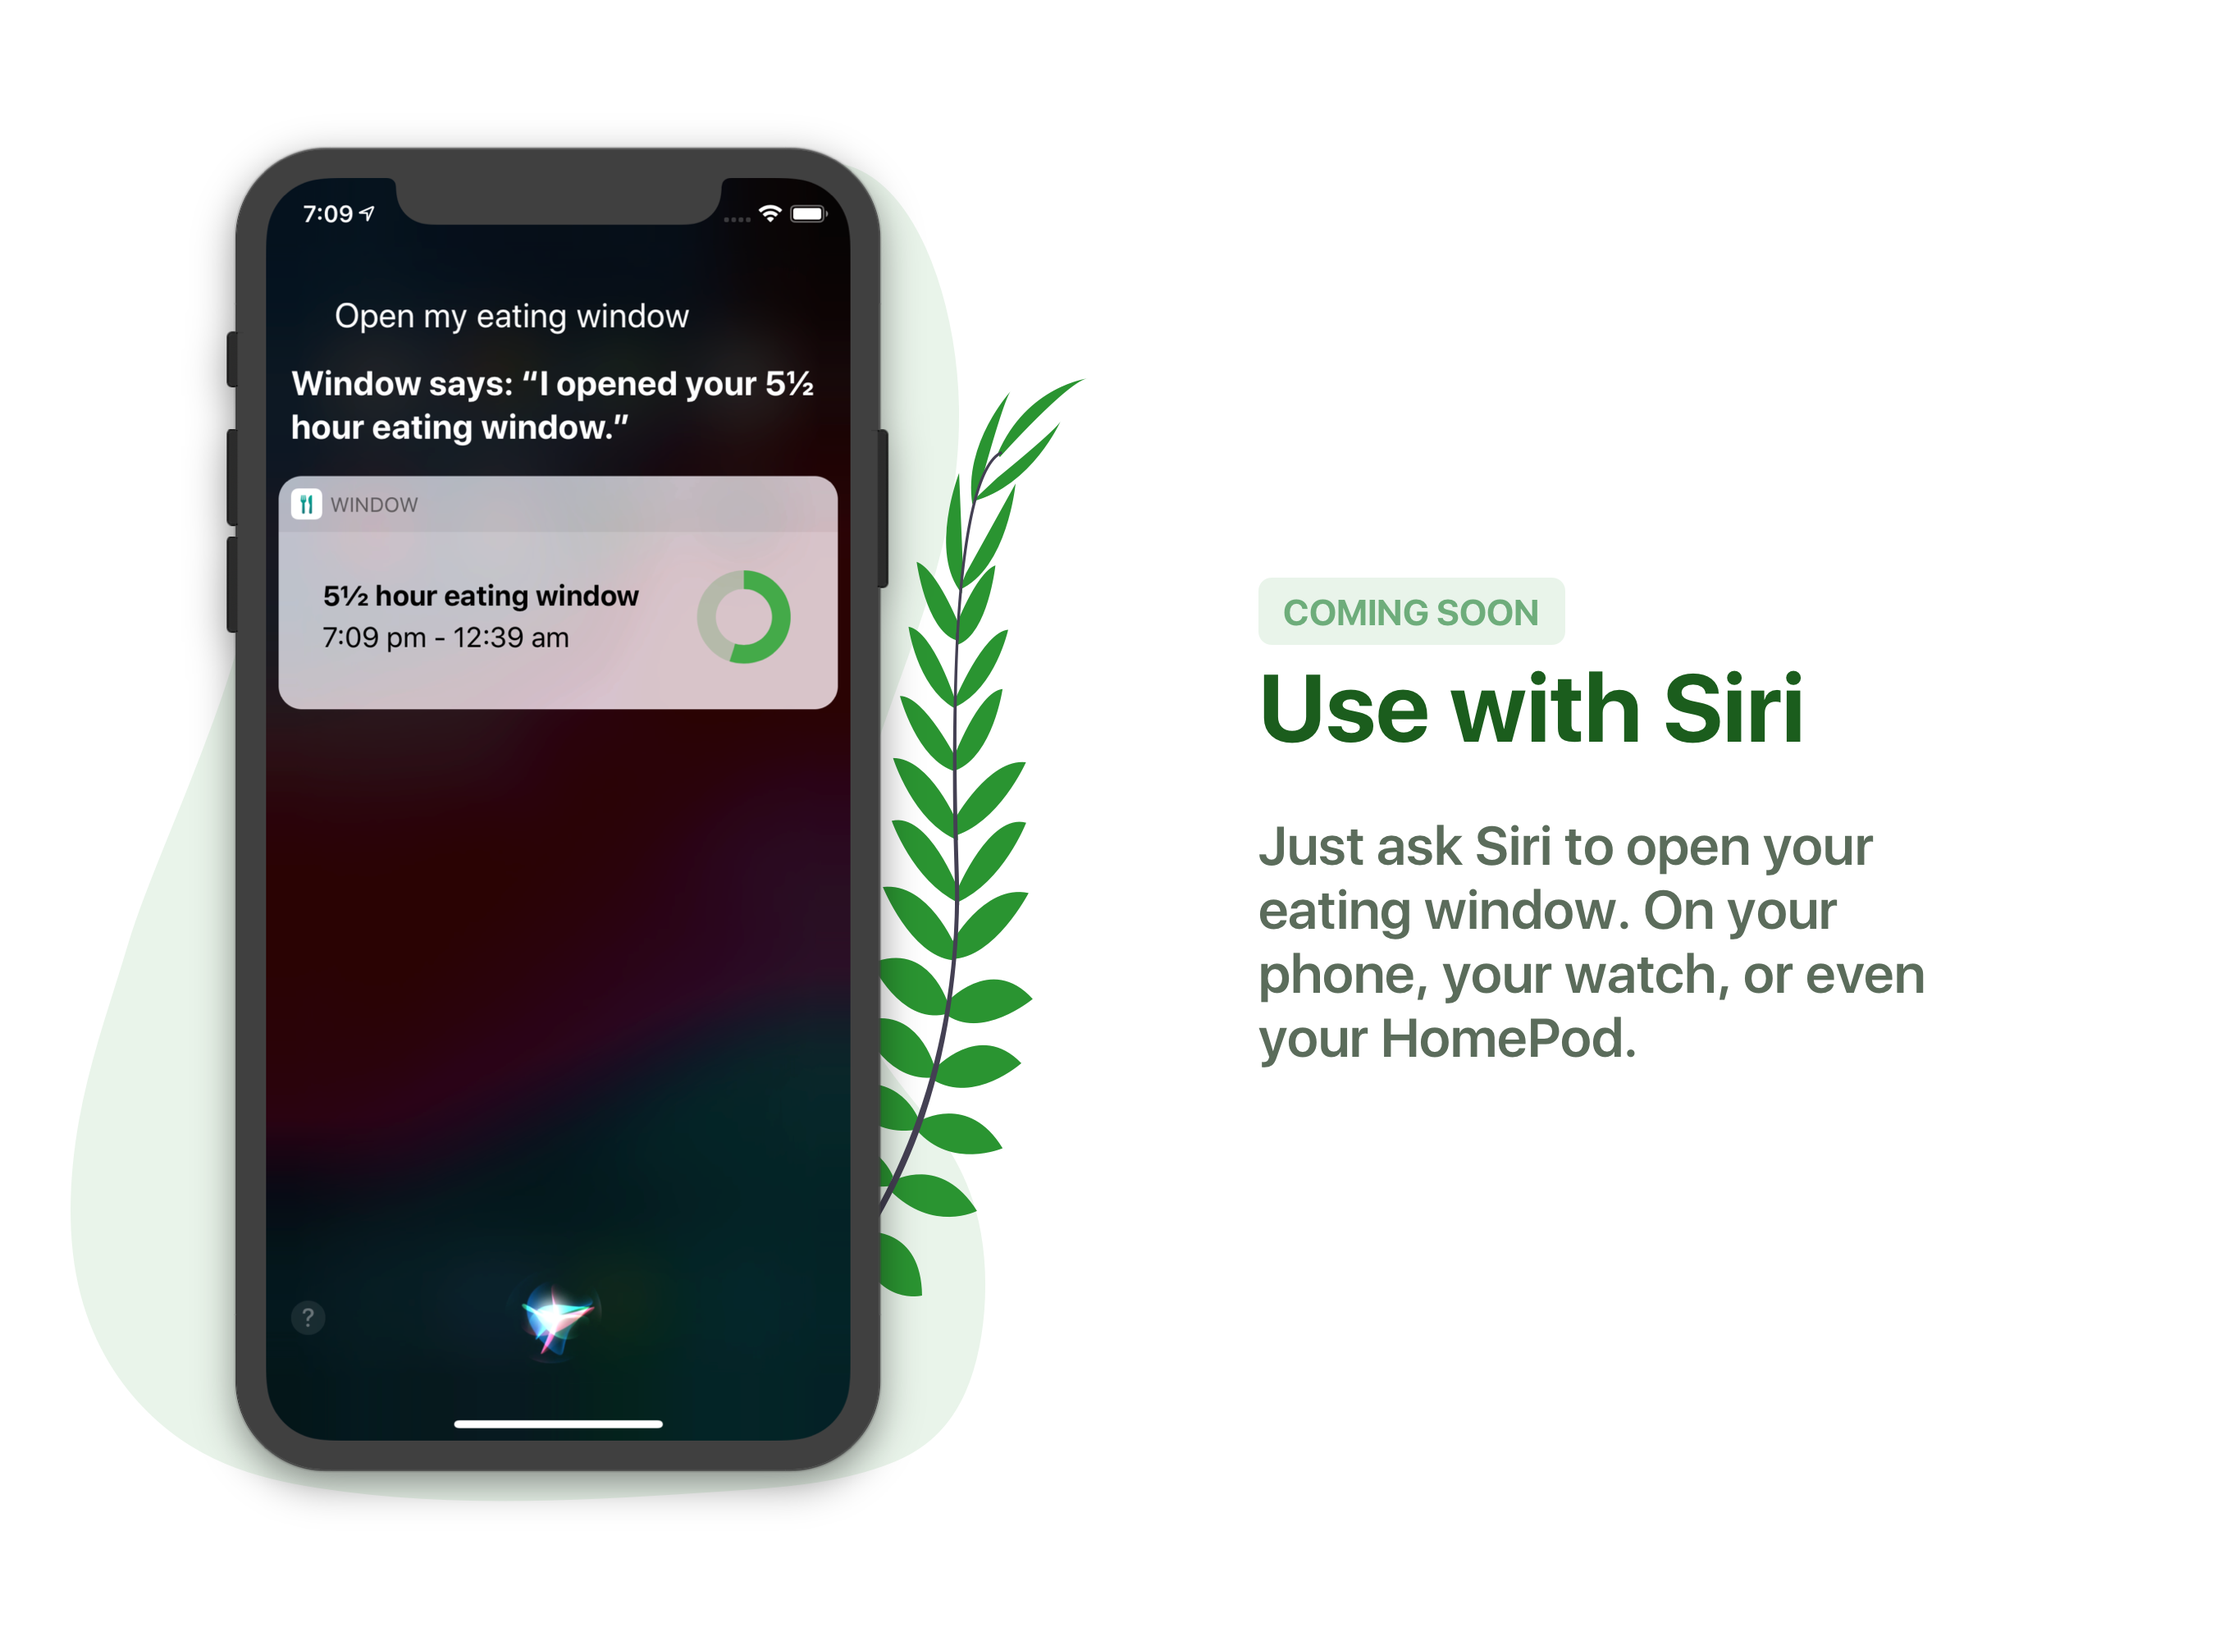
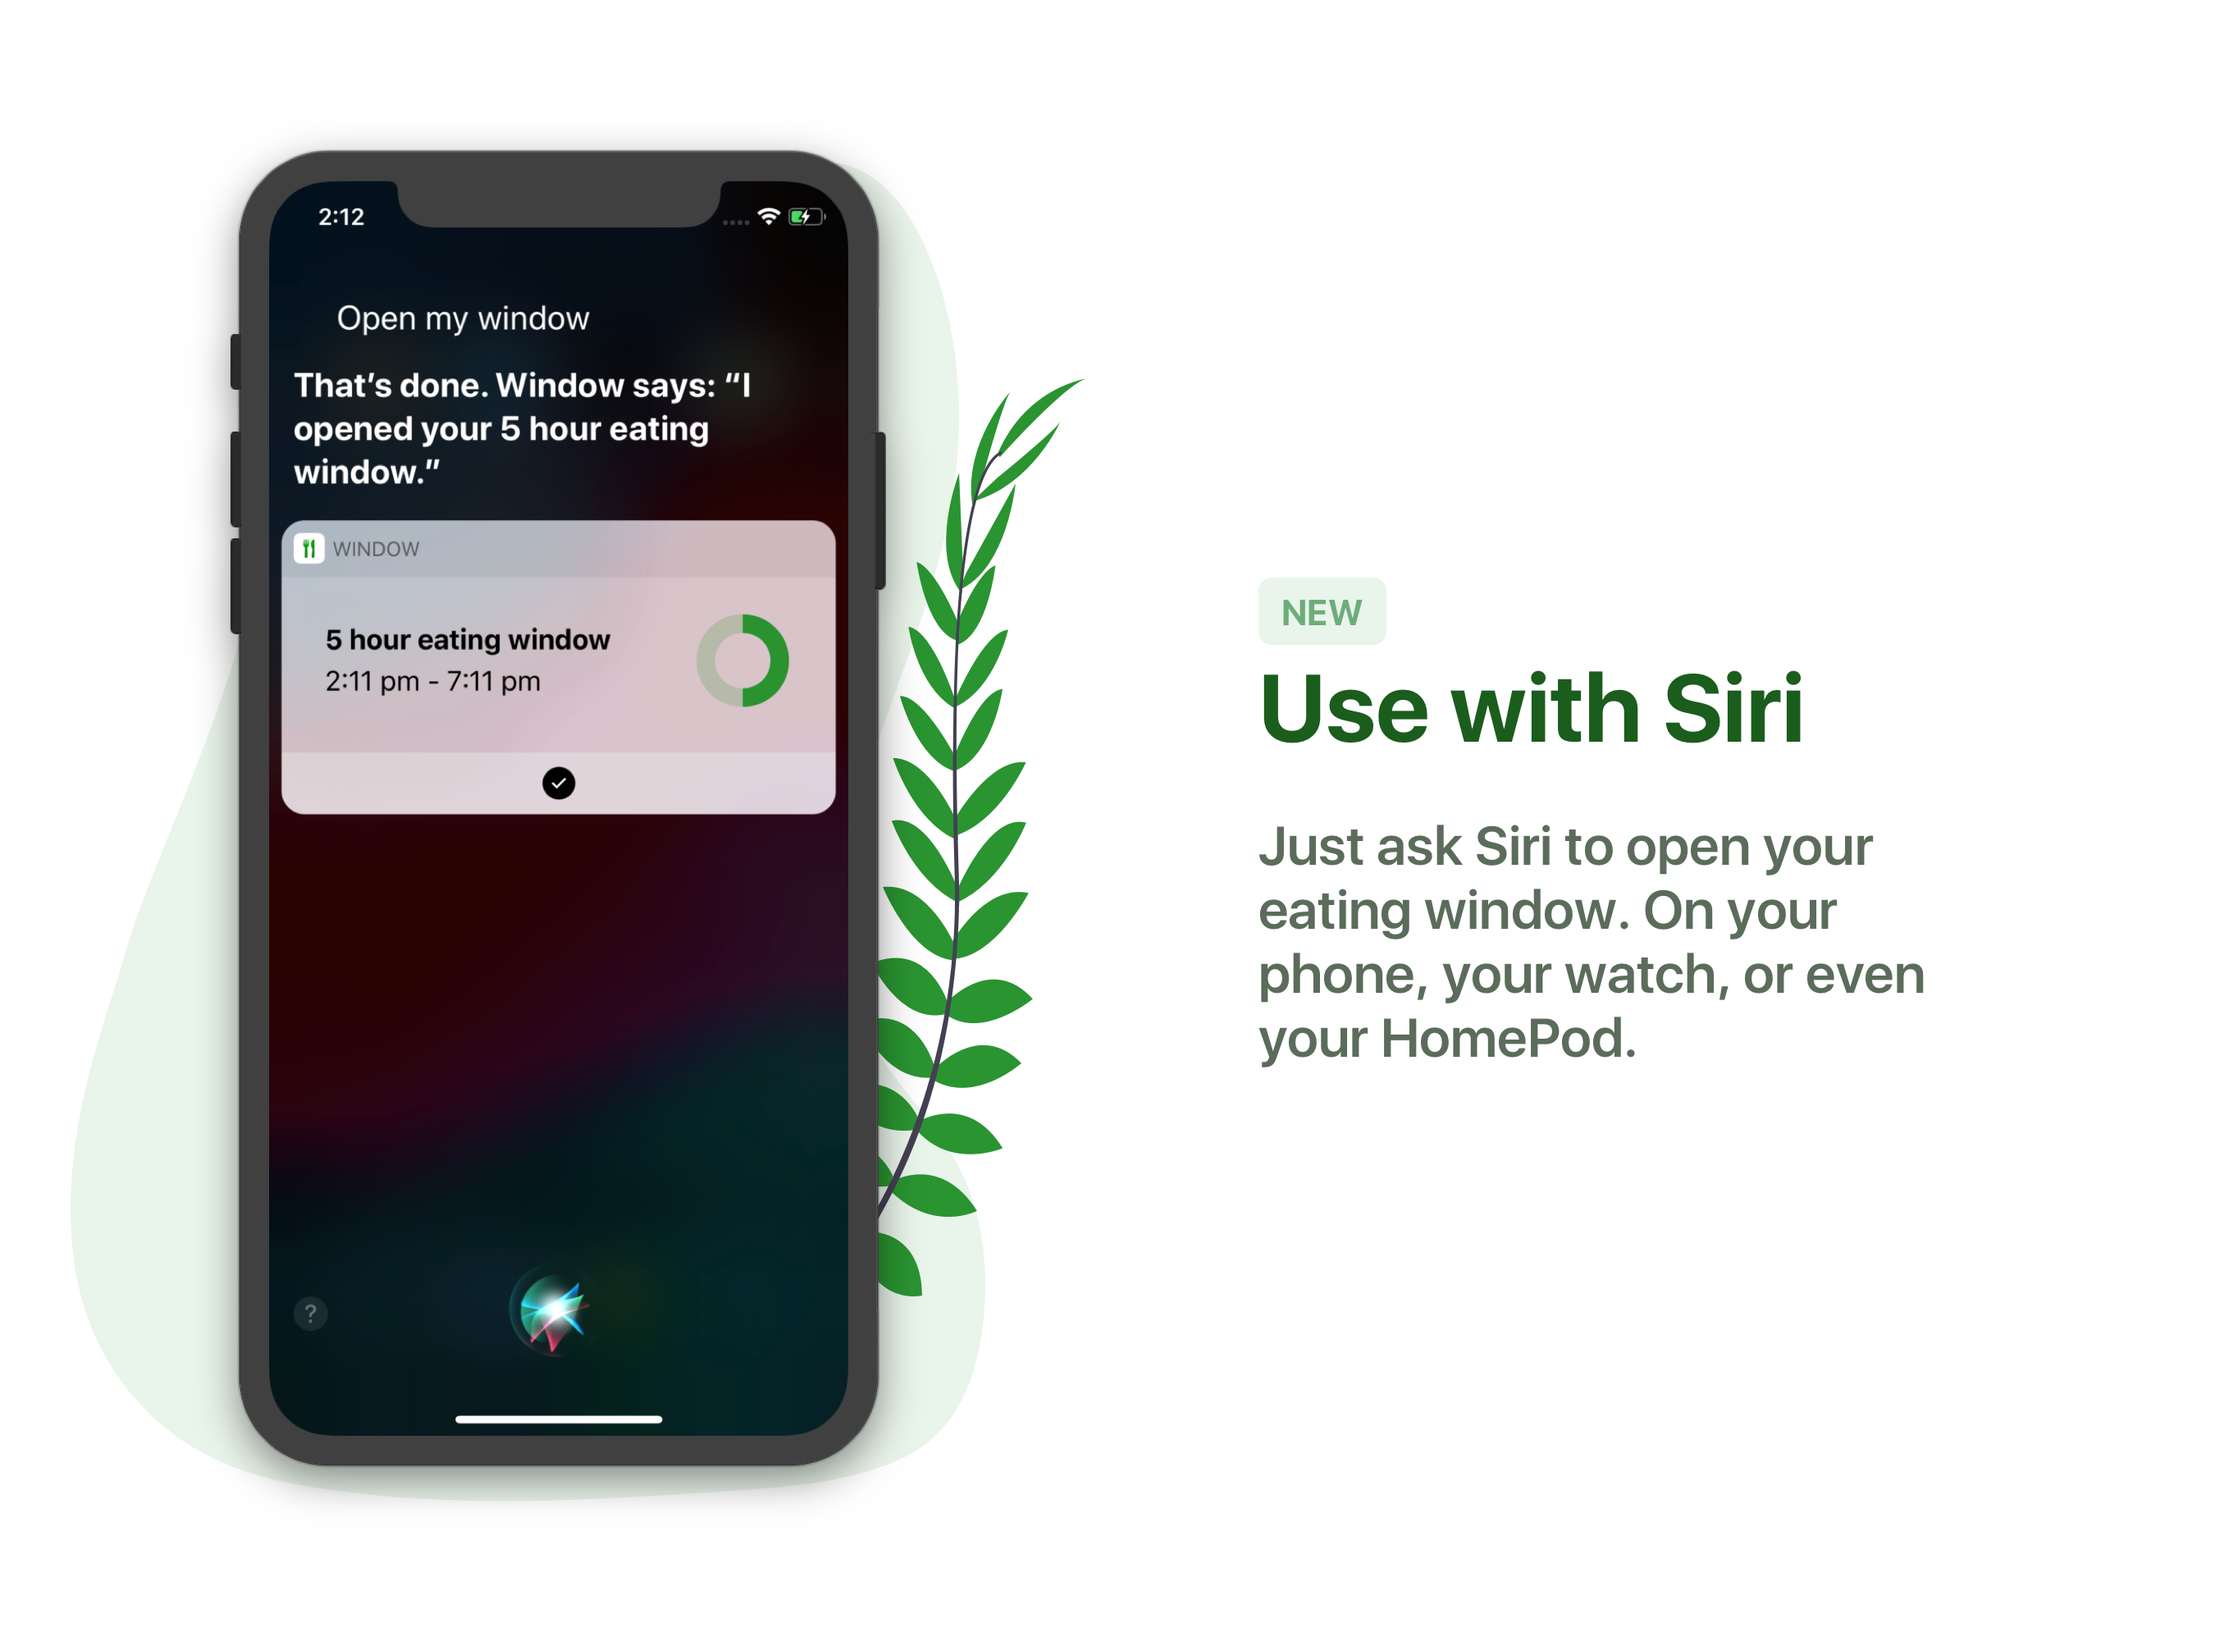
Update the Window 3 beta blog post

diff --git a/_posts/2018-11-15-beta-testing-window-3.md b/_posts/2018-11-15-beta-testing-window-3.md
@@ -94,15 +94,11 @@ This update includes major improvements to the iPad app. Window has supported iP
 
 {% include photoswipe.html images=page.siri max-height=475 %}
 
-You can now use Window with Siri! You can add phrases like *"Hey siri, open my eating window"* or *"Hey Siri, how's my window going?"*. If you set up the phrases on your phone, you can also use them on your Apple Watch or even your HomePod.
-
-**This feature isn't available in the Public Beta yet, but it'll be available soon!*
+You can now use Window with Siri! You can add phrases like *"Hey siri, open my window"* or *"Hey Siri, how's my window going?"*. If you set up the phrases on your phone, you can also use them on your Apple Watch or even your HomePod.
 
 {% include photoswipe.html images=page.today max-height=475 %}
 
 You can also use Window without even unlocking your phone! Window has a new lock screen [widget](https://support.apple.com/en-us/HT207122) that can tell your current eating window or fast.
-
-**This feature isn't available in the Public Beta yet, but it'll be available soon!*
 
 <h4><a name="testing">How to Test</a></h4>
 
